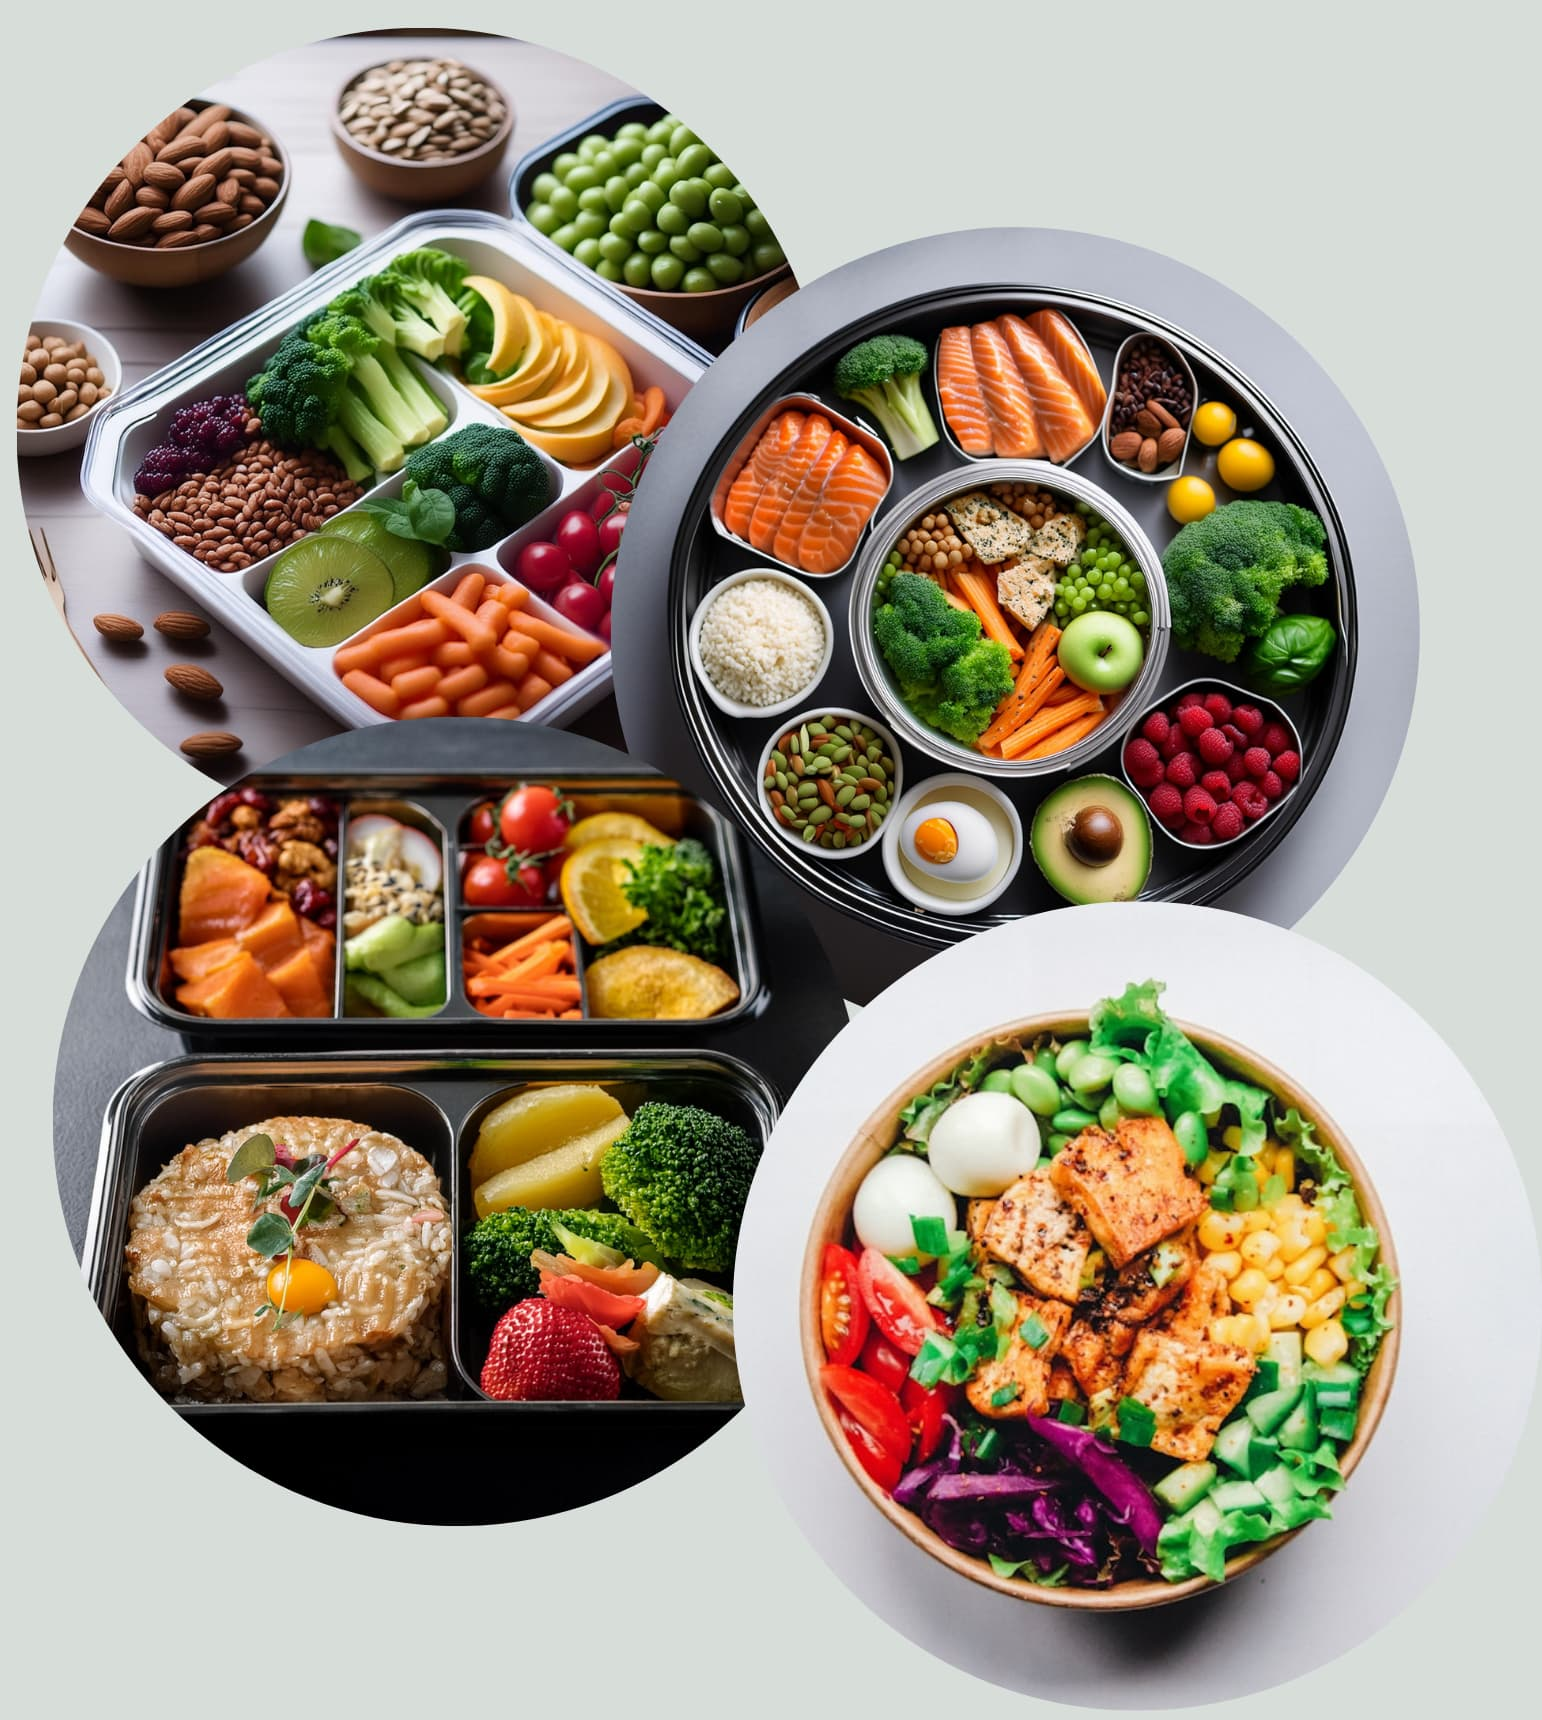
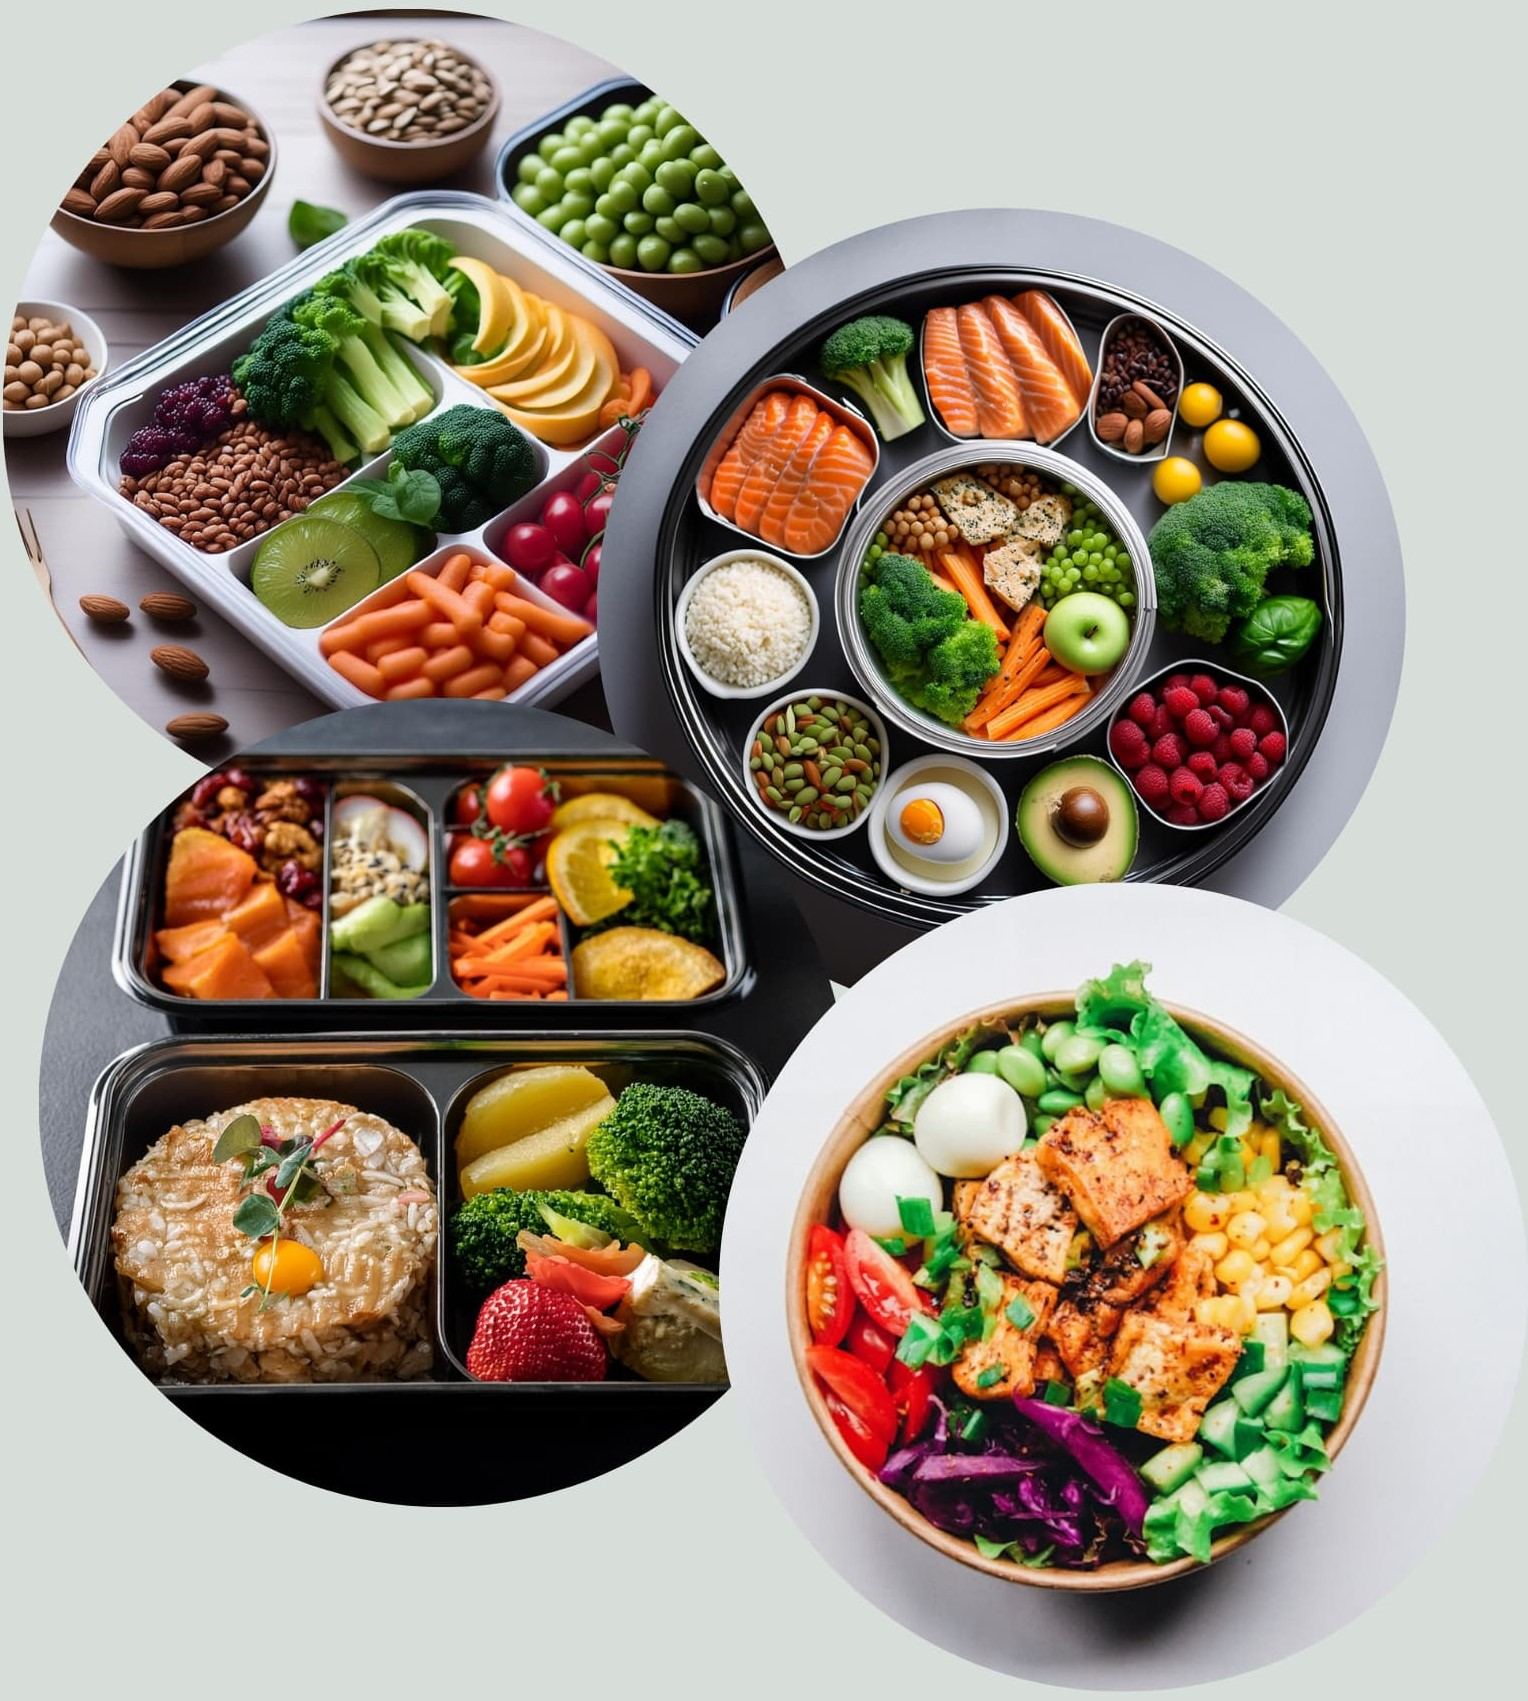
Ajout des medias queries pour la responsivité

diff --git a/css/style.css b/css/style.css
@@ -51,6 +51,34 @@ body{
 /* ******************* */
 /* GENERAL COMPONENTS */
 /* ******************* */
+
+.container{
+    max-width: 130rem;
+    margin: 0 auto;
+}
+.grid {
+    display: grid;
+    grid-template-columns: repeat(2, 1fr);
+    gap: 9.6rem;
+}
+
+.grid-cols-2{
+    grid-template-columns: repeat(2, 1fr);
+}
+.grid-cols-3{
+    grid-template-columns: repeat(3, 1fr);
+}
+.grid-cols-4{
+    grid-template-columns: repeat(4, 1fr);
+}
+.grid-cols-5{
+    grid-template-columns: repeat(5, 1fr);
+}
+.grid-cols-6{
+    grid-template-columns: repeat(6, 1fr);
+}
+
+
 .btn:link, .btn:visited{
     font-size: 2rem;
     padding: 1.6rem 3.2rem;
@@ -93,11 +121,7 @@ body{
 }
 
 .hero{
-    max-width: 130rem;
-    display: grid;
-    grid-template-columns: 1fr 1fr;
     align-items: center;
-    gap: 9.6rem;
     margin: 0 auto;
 }
 .heading-primary{
@@ -216,5 +240,87 @@ body{
 }
 
 
+/* Medias queries */
 
+/* Media Queries */
+@media (max-width: 1200px) {
+    .container {
+        padding: 0 4rem;
+    }
+
+    .grid {
+        gap: 6.4rem;
+    }
+
+    .heading-primary {
+        font-size: 4.4rem;
+    }
+
+    .hero-description {
+        font-size: 1.8rem;
+    }
+}
+
+@media (max-width: 992px) {
+    .grid-cols-2 {
+        grid-template-columns: 1fr;
+    }
+
+    .hero {
+        text-align: center;
+    }
+
+    .heading-primary {
+        font-size: 3.6rem;
+    }
+
+    .hero-description {
+        font-size: 1.6rem;
+    }
+
+    .customers-imgs {
+        justify-content: center;
+    }
+
+    .customers-imgs img:hover {
+        height: 4.8rem;
+        width: 4.8rem;
+    }
+}
+
+@media (max-width: 768px) {
+    .container {
+        padding: 0 2rem;
+    }
+
+    .header {
+        flex-direction: column;
+        height: auto;
+        padding: 2rem;
+    }
+
+    .main-nav-list {
+        flex-direction: column;
+        gap: 1.6rem;
+    }
+
+    .healthyfood-logo {
+        height: 6rem;
+    }
+}
+
+@media (max-width: 576px) {
+    .heading-primary {
+        font-size: 3rem;
+    }
+
+    .hero-description {
+        font-size: 1.4rem;
+    }
+
+    .btn:link, .btn:visited {
+        font-size: 1.6rem;
+        padding: 1.2rem 2.4rem;
+    }
+}
 

diff --git a/index.html b/index.html
@@ -28,7 +28,7 @@
     </header>
     <main>
         <section class="section-hero" id="accueil">
-            <div class="hero">
+            <div class="hero grid grid-cols-2 container">
                 <div class="hero-image-box">
                     <img src="img/hero-image.jpg" 
                         alt="" 
